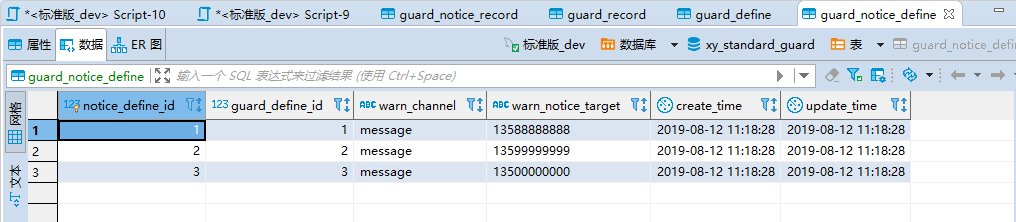
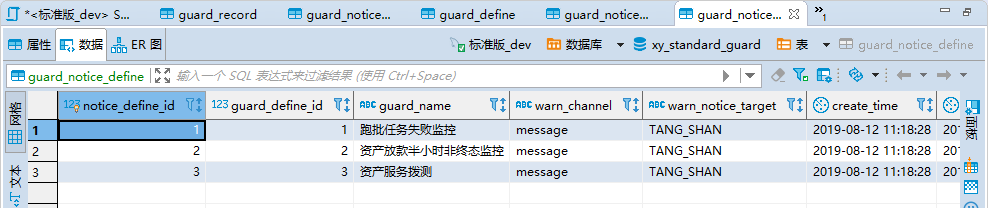
提交通用告警系统

diff --git a/guard-service/src/main/java/xy/guard/service/scheduler/task/GuardSchedulerService.java b/guard-service/src/main/java/xy/guard/service/scheduler/task/GuardSchedulerService.java
@@ -9,6 +9,7 @@ import java.sql.SQLException;
 import java.text.MessageFormat;
 import java.util.List;
 import lombok.extern.slf4j.Slf4j;
+import org.apache.commons.collections.CollectionUtils;
 import org.apache.http.HttpStatus;
 import org.springframework.beans.factory.annotation.Autowired;
 import org.springframework.stereotype.Component;
@@ -20,10 +21,13 @@ import xy.common.web.http.HttpUtils;
 import xy.guard.dao.datasource.DataSourceHolder;
 import xy.guard.dao.vo.GuardDefineVo;
 import xy.guard.dao.vo.GuardNoticeDefineVo;
+import xy.guard.dao.vo.GuardNoticeGroupVo;
 import xy.guard.dao.vo.GuardRecordVo;
+import xy.guard.service.enumerate.GuardGroupType;
 import xy.guard.service.enumerate.GuardType;
 import xy.guard.service.enumerate.WarnNoticeResult;
 import xy.guard.service.service.GuardNoticeDefineService;
+import xy.guard.service.service.GuardNoticeGroupService;
 import xy.guard.service.service.GuardNoticeRecordService;
 import xy.msg.client.service.MessageClientService;
 import xy.msg.client.vo.WarnMsgReqVo;
@@ -43,6 +47,8 @@ public class GuardSchedulerService {
     private MessageClientService messageClientService;
     @Autowired
     private GuardNoticeRecordService noticeRecordService;
+    @Autowired
+    private GuardNoticeGroupService guardNoticeGroupService;
 
     /**
      * 开始调度
@@ -70,13 +76,13 @@ public class GuardSchedulerService {
         if (GuardType.sql.name().equals(guardType)) {
             response = queryDb(guardDefine);
             warnNoticeMsg = MessageFormat.format(warnNoticeMsg, response);
-            if (response > 0) {
+            if (!String.valueOf(response).equals(guardDefine.getEvaluateExpect())) {
                 notice(guardDefine, guardRecord.getGuardRecordId(), warnNoticeMsg);
             }
         } else if (GuardType.http.name().equals(guardType)) {
             response = http(guardDefine);
             warnNoticeMsg = MessageFormat.format(warnNoticeMsg, response);
-            if (response != HttpStatus.SC_OK) {
+            if (!String.valueOf(response).equals(guardDefine.getEvaluateExpect())) {
                 notice(guardDefine, guardRecord.getGuardRecordId(), warnNoticeMsg);
             }
         } else {
@@ -149,21 +155,48 @@ public class GuardSchedulerService {
         warnMsgReqVo.setContent(warnNoticeMsg);
         reqVo.setData(warnMsgReqVo);
         for (GuardNoticeDefineVo noticeDefine : noticeDefines) {
-            boolean repeatWarn = noticeRecordService.repeatWarn(noticeDefine.getNoticeDefineId());
-            String target = noticeDefine.getWarnNoticeTarget();
+            String groupCode = noticeDefine.getWarnNoticeTarget();
+            Integer noticeDefineId = noticeDefine.getNoticeDefineId();
+            String guardName = guardDefine.getGuardName();
+            Integer repeatGap = guardDefine.getRepeatGap();
+            boolean repeatWarn = noticeRecordService.repeatWarn(noticeDefineId, repeatGap);
             if (repeatWarn) {
-                log.info("最近有发送过信息不重复推送 guardDefine:{} target:{}", guardDefine.getGuardName(), target);
+                log.info("最近有发送过信息不重复推送 guardDefine:{} target:{}", guardName, repeatGap);
                 continue;
             }
-            try {
-                warnMsgReqVo.setMobile(target);
-                messageClientService.sendWarnMsg(reqVo);
-                log.info("发送告警短信成功 target:{} guardName:{}", target, guardDefine.getGuardName());
-                noticeRecordService.save(noticeDefine, WarnNoticeResult.success.name(), guardRecordId, null);
-            } catch (Exception e) {
-                log.error("发送短信失败 target:{} guardName:{}", target, guardDefine.getGuardName());
-                noticeRecordService.save(noticeDefine, WarnNoticeResult.failed.name(), guardRecordId, e.getMessage());
+            List<GuardNoticeGroupVo> groupVos = guardNoticeGroupService.list(groupCode);
+            if (CollectionUtils.isEmpty(groupVos)) {
+                log.warn("请配置告警组 guardDefine:{}  groupCode:{}", guardName, groupCode);
+                continue;
             }
+            for (GuardNoticeGroupVo groupVo : groupVos) {
+                String target = groupVo.getTargetValue();
+                String type = groupVo.getTargetType();
+                if (GuardGroupType.mobile.name().equals(type)) {
+                    warnMsgReqVo.setMobile(target);
+                    guardByMessage(guardRecordId, reqVo, warnMsgReqVo, noticeDefine);
+                } else {
+                    log.warn("暂不支持除短信以外告警方式");
+                }
+            }
+        }
+    }
+
+    /**
+     * 短信通知
+     */
+    private void guardByMessage(Integer guardRecordId, BaseRequestVo<WarnMsgReqVo> reqVo, WarnMsgReqVo warnMsgReqVo,
+        GuardNoticeDefineVo noticeDefine) {
+        String target = warnMsgReqVo.getMobile();
+        String guardName = noticeDefine.getGuardName();
+        try {
+            messageClientService.sendWarnMsg(reqVo);
+            log.info("发送告警短信成功 target:{} guardName:{}", target, guardName);
+            noticeRecordService.save(noticeDefine, target, WarnNoticeResult.success.name(), guardRecordId, null);
+        } catch (Exception e) {
+            log.error("发送短信失败 target:{} guardName:{}", target, guardName);
+            noticeRecordService
+                .save(noticeDefine, target, WarnNoticeResult.failed.name(), guardRecordId, e.getMessage());
         }
     }
 }

diff --git a/guard-service/src/main/java/xy/guard/service/service/GuardNoticeRecordService.java b/guard-service/src/main/java/xy/guard/service/service/GuardNoticeRecordService.java
@@ -24,7 +24,8 @@ public class GuardNoticeRecordService extends ServiceImpl<GuardNoticeRecordDao, 
     /**
      * 保存
      */
-    public boolean save(GuardNoticeDefineVo guardNoticeDefine, String status, Integer guardRecordId, String remark) {
+    public boolean save(GuardNoticeDefineVo guardNoticeDefine, String target, String status, Integer guardRecordId,
+        String remark) {
         GuardNoticeRecordVo record = new GuardNoticeRecordVo();
         LocalDateTime now = LocalDateTime.now();
         record.setCreateTime(now);
@@ -32,24 +33,25 @@ public class GuardNoticeRecordService extends ServiceImpl<GuardNoticeRecordDao, 
         record.setNoticeDefineId(guardNoticeDefine.getNoticeDefineId());
         record.setNoticeStatus(status);
         record.setNoticeRemark(remark);
+        record.setGuardName(guardNoticeDefine.getGuardName());
         record.setUpdateTime(now);
         record.setWarnChannel(guardNoticeDefine.getWarnChannel());
-        record.setWarnNoticeTarget(guardNoticeDefine.getWarnNoticeTarget());
+        record.setWarnNoticeTarget(target);
         return save(record);
     }
 
     /**
      * 是否重复通知
      */
-    public boolean repeatWarn(Integer noticeDefineId) {
-        LocalDateTime repeatTime = LocalDateTime.now().plusHours(-guardApolloConfig.getRepeatWarnTime());
+    public boolean repeatWarn(Integer noticeDefineId, Integer repeatGap) {
+        LocalDateTime repeatTime = LocalDateTime.now().plusMinutes(-repeatGap);
         LambdaQueryWrapper<GuardNoticeRecordVo> queryWrapper = new LambdaQueryWrapper<>();
         queryWrapper.eq(GuardNoticeRecordVo::getNoticeDefineId, noticeDefineId)
-            .ge(GuardNoticeRecordVo::getCreateTime, repeatTime).orderByDesc(GuardNoticeRecordVo::getCreateTime)
-            .last("LIMIT 1");
+            .ge(GuardNoticeRecordVo::getCreateTime, repeatTime).last("LIMIT 1");
         return count(queryWrapper) > 0;
     }
 }
+
 
 
 

diff --git a/guard-dao/src/main/java/xy/guard/dao/vo/GuardNoticeGroupVo.java b/guard-dao/src/main/java/xy/guard/dao/vo/GuardNoticeGroupVo.java
@@ -1,0 +1,52 @@
+package xy.guard.dao.vo;
+
+import com.baomidou.mybatisplus.annotation.IdType;
+import com.baomidou.mybatisplus.annotation.TableField;
+import com.baomidou.mybatisplus.annotation.TableId;
+import com.baomidou.mybatisplus.annotation.TableName;
+import java.time.LocalDateTime;
+import lombok.Data;
+
+@Data
+@TableName(value = "guard_notice_group")
+public class GuardNoticeGroupVo {
+    @TableId(value = "notice_group_id", type = IdType.AUTO)
+    private Integer noticeGroupId;
+
+    /**
+     * 告警组名称
+     */
+    @TableField(value = "notice_group_name")
+    private String noticeGroupName;
+
+    /**
+     * 告警组编码
+     */
+    @TableField(value = "notice_group_code")
+    private String noticeGroupCode;
+
+    /**
+     * 类型 message:短信 email:邮件
+     */
+    @TableField(value = "target_type")
+    private String targetType;
+
+    /**
+     * 手机号或者邮箱
+     */
+    @TableField(value = "target_value")
+    private String targetValue;
+
+    @TableField(value = "create_time")
+    private LocalDateTime createTime;
+
+    public static final String COL_NOTICE_GROUP_NAME = "notice_group_name";
+
+    public static final String COL_NOTICE_GROUP_CODE = "notice_group_code";
+
+    public static final String COL_TARGET_TYPE = "target_type";
+
+    public static final String COL_TARGET_VALUE = "target_value";
+
+    public static final String COL_CREATE_TIME = "create_time";
+}

diff --git a/guard-service/src/main/java/xy/guard/service/service/GuardNoticeGroupService.java b/guard-service/src/main/java/xy/guard/service/service/GuardNoticeGroupService.java
@@ -1,0 +1,26 @@
+package xy.guard.service.service;
+
+import com.baomidou.mybatisplus.core.conditions.query.LambdaQueryWrapper;
+import com.baomidou.mybatisplus.extension.service.impl.ServiceImpl;
+import java.util.List;
+import org.springframework.stereotype.Service;
+import xy.guard.dao.dao.GuardNoticeGroupDao;
+import xy.guard.dao.vo.GuardNoticeGroupVo;
+
+/**
+ * @author Ambitor
+ */
+@Service
+public class GuardNoticeGroupService extends ServiceImpl<GuardNoticeGroupDao, GuardNoticeGroupVo> {
+
+    /**
+     * 获取组的告警对象
+     */
+    public List<GuardNoticeGroupVo> list(String groupCode) {
+        LambdaQueryWrapper<GuardNoticeGroupVo> queryWrapper = new LambdaQueryWrapper<>();
+        queryWrapper.eq(GuardNoticeGroupVo::getNoticeGroupCode, groupCode);
+        return list(queryWrapper);
+    }
+
+}
+

diff --git a/guard-dao/src/main/java/xy/guard/dao/vo/GuardDefineVo.java b/guard-dao/src/main/java/xy/guard/dao/vo/GuardDefineVo.java
@@ -52,6 +52,12 @@ public class GuardDefineVo {
     private String frequency;
 
     /**
+     * 多少分钟内不重复告警，默认30分钟
+     */
+    @TableField(value = "repeat_gap")
+    private Integer repeatGap;
+
+    /**
      * 告警内容
      */
     @TableField(value = "warn_notice_msg")
@@ -74,6 +80,8 @@ public class GuardDefineVo {
     public static final String COL_EVALUATE_EXPECT = "evaluate_expect";
 
     public static final String COL_FREQUENCY = "frequency";
+
+    public static final String COL_REPEAT_GAP = "repeat_gap";
 
     public static final String COL_WARN_NOTICE_MSG = "warn_notice_msg";
 

diff --git a/guard-dao/src/main/java/xy/guard/dao/vo/GuardNoticeRecordVo.java b/guard-dao/src/main/java/xy/guard/dao/vo/GuardNoticeRecordVo.java
@@ -21,6 +21,12 @@ public class GuardNoticeRecordVo {
     private Integer guardRecordId;
 
     /**
+     * 告警名称
+     */
+    @TableField(value = "guard_name")
+    private String guardName;
+
+    /**
      * 通知到达
      */
     @TableField(value = "notice_status")
@@ -53,6 +59,8 @@ public class GuardNoticeRecordVo {
     public static final String COL_NOTICE_DEFINE_ID = "notice_define_id";
 
     public static final String COL_GUARD_RECORD_ID = "guard_record_id";
+
+    public static final String COL_GUARD_NAME = "guard_name";
 
     public static final String COL_NOTICE_STATUS = "notice_status";
 

diff --git a/guard-dao/src/main/java/xy/guard/dao/vo/GuardNoticeDefineVo.java b/guard-dao/src/main/java/xy/guard/dao/vo/GuardNoticeDefineVo.java
@@ -18,6 +18,12 @@ public class GuardNoticeDefineVo {
     private Integer guardDefineId;
 
     /**
+     * 告警名称
+     */
+    @TableField(value = "guard_name")
+    private String guardName;
+
+    /**
      * message:短信 email:邮件
      */
     @TableField(value = "warn_channel")
@@ -36,6 +42,8 @@ public class GuardNoticeDefineVo {
     private LocalDateTime updateTime;
 
     public static final String COL_GUARD_DEFINE_ID = "guard_define_id";
+
+    public static final String COL_GUARD_NAME = "guard_name";
 
     public static final String COL_WARN_CHANNEL = "warn_channel";
 

diff --git a/guard-service/src/main/java/xy/guard/service/scheduler/GuardScheduler.java b/guard-service/src/main/java/xy/guard/service/scheduler/GuardScheduler.java
@@ -25,13 +25,7 @@ public class GuardScheduler implements InitializingBean {
     @Override
     public void afterPropertiesSet() {
         // Creates a Scheduler instance.
-        Scheduler s = new Scheduler() {
-            @Override
-            public String getGuid() {
-                return "GuardScheduler";
-            }
-        };
-
+        Scheduler s = new Scheduler();
         // Task Collector
         s.addTaskCollector(guardTaskCollector);
         // Daemon Thread

diff --git a/guard-dao/src/main/java/xy/guard/dao/dao/GuardNoticeGroupDao.java b/guard-dao/src/main/java/xy/guard/dao/dao/GuardNoticeGroupDao.java
@@ -1,0 +1,7 @@
+package xy.guard.dao.dao;
+
+import com.baomidou.mybatisplus.core.mapper.BaseMapper;
+import xy.guard.dao.vo.GuardNoticeGroupVo;
+
+public interface GuardNoticeGroupDao extends BaseMapper<GuardNoticeGroupVo> {
+}

diff --git a/guard-service/src/main/java/xy/guard/service/config/GuardApolloConfig.java b/guard-service/src/main/java/xy/guard/service/config/GuardApolloConfig.java
@@ -15,6 +15,6 @@ import org.springframework.stereotype.Component;
 @Component
 public class GuardApolloConfig {
 
-    @Value("${repeat.warn.time:1}")
+    @Value("${repeat.warn.time:30}")
     private Integer repeatWarnTime;
 }

diff --git a/guard-service/src/main/java/xy/guard/service/service/GuardDefineService.java b/guard-service/src/main/java/xy/guard/service/service/GuardDefineService.java
@@ -7,12 +7,14 @@ import xy.guard.dao.vo.GuardDefineVo;
 
 /**
  * GuardDefineService
+ *
  * @author Ambitor
  */
 @Service
 public class GuardDefineService extends ServiceImpl<GuardDefineDao, GuardDefineVo> {
 
 }
+
 
 
 

diff --git a/guard-service/src/main/java/xy/guard/service/enumerate/GuardGroupType.java b/guard-service/src/main/java/xy/guard/service/enumerate/GuardGroupType.java
@@ -1,0 +1,9 @@
+package xy.guard.service.enumerate;
+
+/**
+ * Created by Ambitor on 2019/8/16
+ */
+public enum  GuardGroupType {
+    mobile,
+    email;
+}
